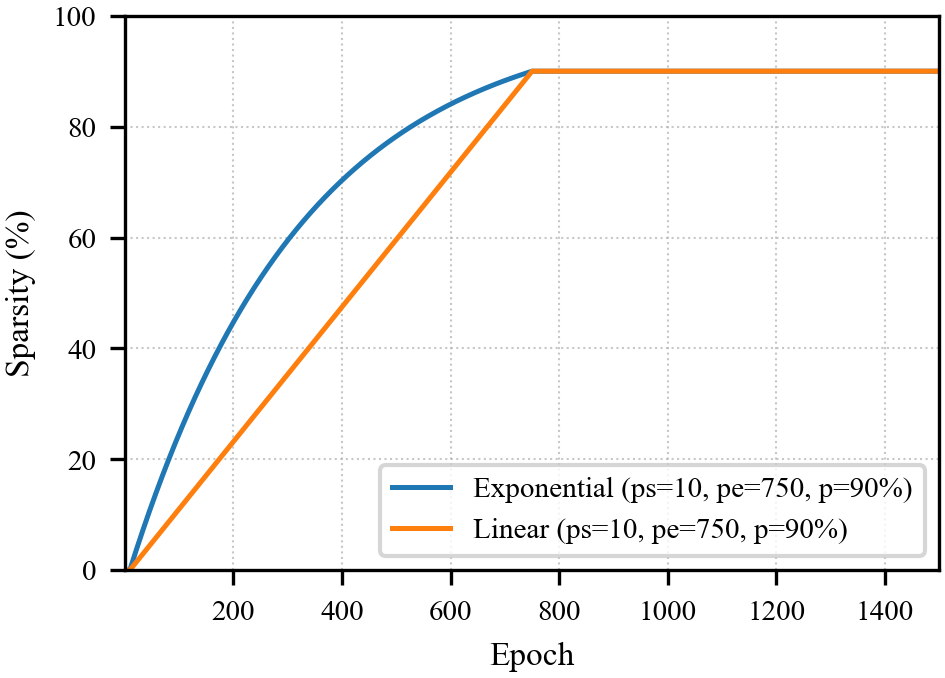
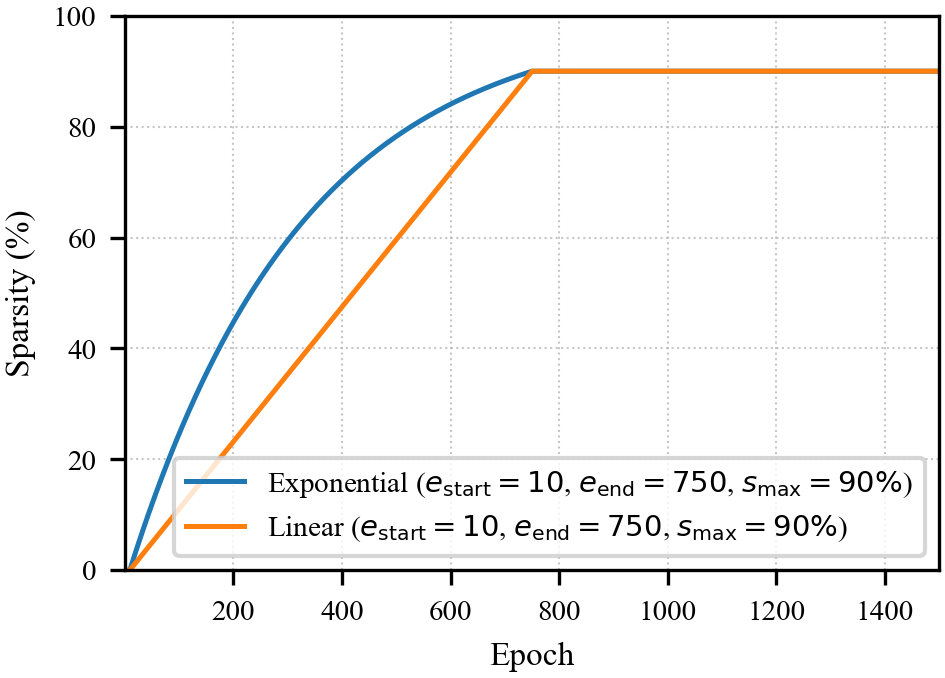
updated plots

Changed region(s): [[0.1841, 0.6504, 0.982, 0.8363]]

diff --git a/plot.py b/plot.py
@@ -6,6 +6,7 @@ from pathlib import Path
 
 import matplotlib.pyplot as plt
 import numpy as np
+import soundfile as sf
 
 
 ROOT = Path(__file__).resolve().parent
@@ -114,13 +115,13 @@ def plot_prune_scheduler() -> None:
     ax.plot(
         epochs,
         exp * 100.0,
-        label="Exponential (ps=10, pe=750, p=90%)",
+        label=r"Exponential ($e_{\mathrm{start}}=10$, $e_{\mathrm{end}}=750$, $s_{\max}=90\%$)",
         color="tab:blue",
     )
     ax.plot(
         epochs,
         linear * 100.0,
-        label="Linear (ps=10, pe=750, p=90%)",
+        label=r"Linear ($e_{\mathrm{start}}=10$, $e_{\mathrm{end}}=750$, $s_{\max}=90\%$)",
         color="tab:orange",
     )
     ax.set_xlabel("Epoch")
@@ -232,6 +233,69 @@ def plot_sparsity_sweep() -> None:
     plt.close(fig)
 
 
+def _read_mono_audio(path: Path) -> tuple[np.ndarray, int]:
+    audio, sample_rate = sf.read(path)
+    if audio.ndim > 1:
+        audio = np.mean(audio, axis=1)
+    return np.asarray(audio, dtype=float), int(sample_rate)
+
+
+def plot_waveform_overlap(
+    model_output_wav: Path,
+    target_wav: Path,
+    output_png: Path,
+    start_sec: float = 0.7,
+    window_sec: float = 0.008,
+) -> None:
+    model_audio, sr_model = _read_mono_audio(model_output_wav)
+    target_audio, sr_target = _read_mono_audio(target_wav)
+    if sr_model != sr_target:
+        raise ValueError(f"Sample-rate mismatch: {sr_model} vs {sr_target}")
+
+    start_idx = int(round(start_sec * sr_model))
+    end_idx = start_idx + int(round(window_sec * sr_model))
+    n = min(len(model_audio), len(target_audio))
+    if end_idx > n:
+        raise ValueError(f"Requested window exceeds available audio length: {n / sr_model:.3f}s")
+
+    model_seg = model_audio[start_idx:end_idx]
+    target_seg = target_audio[start_idx:end_idx]
+    time_ms = (np.arange(len(model_seg)) / sr_model) * 1000.0
+
+    fig, ax = plt.subplots(figsize=(7.0, 2.8))
+    ax.plot(time_ms, target_seg, color="tab:blue", linewidth=1.0, label="Target")
+    ax.plot(time_ms, model_seg, color="tab:orange", linewidth=1.0, linestyle="--", label="Model output")
+    ax.set_xlabel("Time (ms)")
+    ax.set_ylabel("Amplitude")
+    ax.legend(loc="upper right", frameon=True)
+    fig.savefig(output_png)
+    plt.close(fig)
+
+
+def plot_waveform_overlaps() -> None:
+    plot_waveform_overlap(
+        model_output_wav=ROOT
+        / "models/sparsity_level_sweep/output-b40-lr0.001-e1500-p90-local-exponential-ps10-pe750-2026-03-10_10-41-36-427138/model_output.wav",
+        target_wav=ROOT
+        / "models/sparsity_level_sweep/output-b40-lr0.001-e1500-p90-local-exponential-ps10-pe750-2026-03-10_10-41-36-427138/target.wav",
+        output_png=OUT_DIR / "waveform_overlap_imp_p90_ieee.png",
+    )
+    plot_waveform_overlap(
+        model_output_wav=ROOT
+        / "models/one_shot_sweep/p90/model_output.wav",
+        target_wav=ROOT
+        / "models/one_shot_sweep/p90/target.wav",
+        output_png=OUT_DIR / "waveform_overlap_oneshot_p90_high_ieee.png",
+    )
+    plot_waveform_overlap(
+        model_output_wav=ROOT
+        / "models/sparsity_level_sweep/output-b40-lr0.001-e1500-2026-03-09_18-18-33-026461/model_output.wav",
+        target_wav=ROOT
+        / "models/sparsity_level_sweep/output-b40-lr0.001-e1500-2026-03-09_18-18-33-026461/target.wav",
+        output_png=OUT_DIR / "waveform_overlap_not_pruned_high_ieee.png",
+    )
+
+
 def _latex_escape(text: str) -> str:
     return text.replace("_", r"\_")
 
@@ -295,6 +359,7 @@ def main() -> None:
     plot_prune_scheduler()
     plot_loss_curves()
     plot_sparsity_sweep()
+    plot_waveform_overlaps()
     amp_rows = build_amp_capture_rows()
     latex_table = make_latex_esr_table(amp_rows)
     print(f"Saved plots to: {OUT_DIR}")